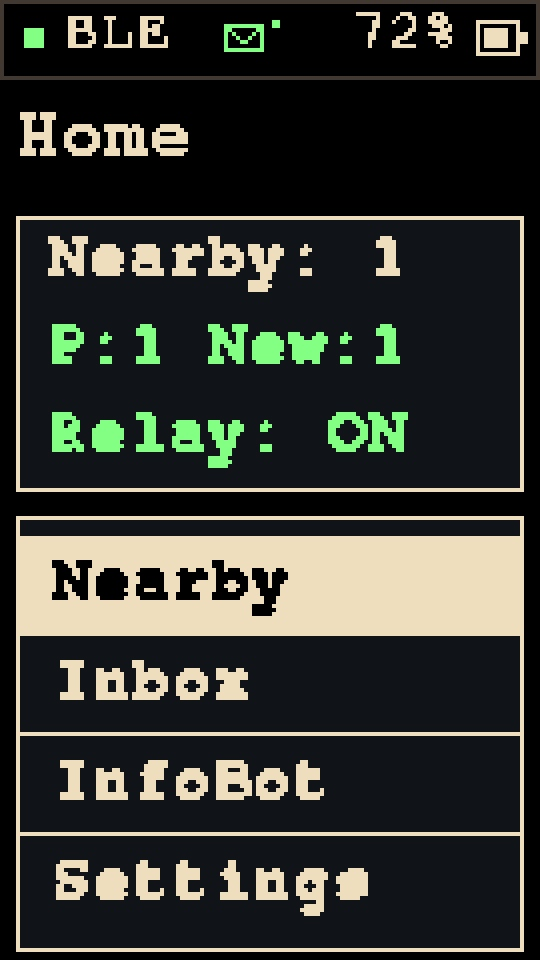
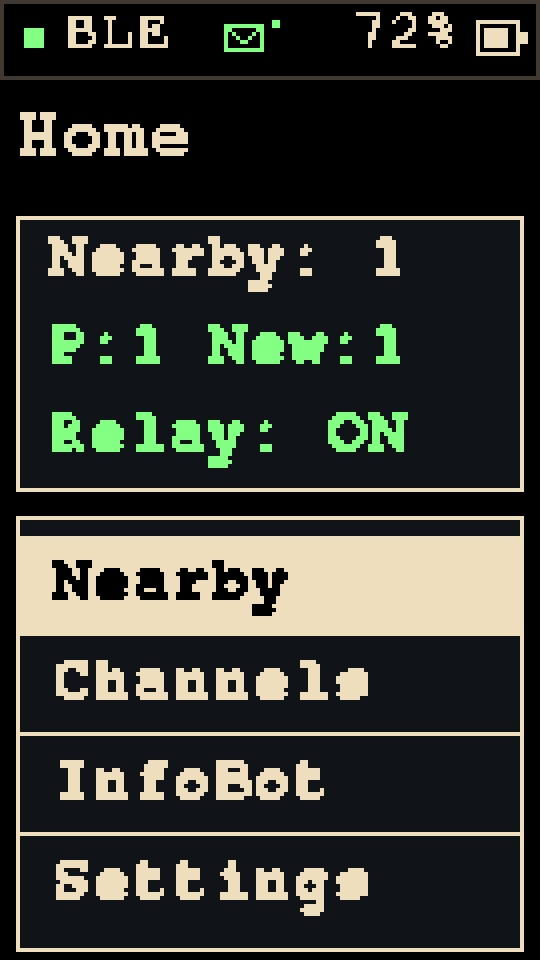
refactor: rename Inbox navigation to Channels
- Align the Home entry and page title with public channel writing and direct messages.
- Refresh guide labels and software previews without changing message behavior.
- Record owner-confirmed DM recovery and public sending.

Changed region(s): [[0.237, 0.6875, 0.5333, 0.75], [0.563, 0.6875, 0.6815, 0.75], [0.0889, 0.6875, 0.2074, 0.7188]]

diff --git a/tools/export-preview-jpegs.swift b/tools/export-preview-jpegs.swift
@@ -15,7 +15,7 @@ func text(_ text:String,_ x:CGFloat,_ y:CGFloat,_ size:CGFloat,_ bold:Bool=false
 text("BITCHAT STICK",48,31,38,true)
 text("FreeMono / cream #EBDCBA / 135 × 240 / simulated data",50,86,19)
 let names=["07-splash","01-dashboard","02-nearby-peers","03-channels","04-channel-messages","05-infobot","06-settings","08-brightness","10-battery","09-about","11-diagnostics","12-sound","13-joyc-hat","14-reply","15-short-messages","16-keyboard","17-confirm"]
-let titles=["START","HOME","NEARBY","INBOX","MESSAGES","INFOBOT","SETTINGS","BRIGHTNESS","BATTERY","ABOUT","DIAGNOSTICS","SOUND","JOYC HAT","REPLY","SHORT MESSAGES","KEYBOARD","CONFIRM"]
+let titles=["START","HOME","NEARBY","CHANNELS","MESSAGES","INFOBOT","SETTINGS","BRIGHTNESS","BATTERY","ABOUT","DIAGNOSTICS","SOUND","JOYC HAT","REPLY","SHORT MESSAGES","KEYBOARD","CONFIRM"]
 for i in 0..<names.count {
  let x=CGFloat(50+(i%6)*360),y=CGFloat(145+(i/6)*470)
  text(titles[i],x,y,16,true)

diff --git a/src/Ui.cpp b/src/Ui.cpp
@@ -193,7 +193,7 @@ void draw(const PeerTable& peers, uint32_t now) {
   const char* title = "Home";
   switch (screen) {
     case Screen::Peers: title = "Nearby"; break;
-    case Screen::Channels: title = detail ? "#bluetooth" : "Inbox"; break;
+    case Screen::Channels: title = detail ? "#bluetooth" : "Channels"; break;
     case Screen::Messages: title = "Messages"; break;
     case Screen::Bot: title = "InfoBot"; break;
     case Screen::Settings: title = "Settings"; break;
@@ -216,7 +216,7 @@ void draw(const PeerTable& peers, uint32_t now) {
       std::snprintf(value, sizeof(value), "Nearby: %u", unsigned(peers.candidates())); label(value, 57);
       std::snprintf(value, sizeof(value), "P:%u New:%u", unsigned(mesh().peerCount()), unsigned(mesh().unreadCount())); label(value, 79, green);
       label(transportReady() && mesh().ready() ? "Relay: ON" : "Relay: OFF", 101, transportReady() && mesh().ready() ? green : amber);
-      const char* options[] = {"Nearby", "Inbox", "InfoBot", "Settings"};
+      const char* options[] = {"Nearby", "Channels", "InfoBot", "Settings"};
       menu(options, 4, 129, 24);
       break;
     }

diff --git a/docs/04-screens.md b/docs/04-screens.md
@@ -24,7 +24,7 @@ Target: **M5StickC Plus2, 135 × 240 pixels, portrait, en-US**. The editable [Fi
 | A held ≥700ms | Reserved; no confirmation on release |
 | C held ≥700ms | No down action on release; six-second hold retains power off |
 
-Messages returns to Inbox on hold-B. Splash leaves on short-A or JoyC right. Short physical-button actions occur on release, with no auto-repeat. The first press after the 30-second screen timeout only wakes the display; navigation stays suppressed until all buttons are released. Scanning continues on its normal schedule. Brightness is restored from a versioned NVS record on boot; invalid/missing records use 50%. Only explicit confirmations write flash; known unchanged saved values are skipped, while invalid/unknown records are repaired. Failed saves show `Not saved / RAM only` in Settings.
+Messages returns to Channels on hold-B. Splash leaves on short-A or JoyC right. Short physical-button actions occur on release, with no auto-repeat. The first press after the 30-second screen timeout only wakes the display; navigation stays suppressed until all buttons are released. Scanning continues on its normal schedule. Brightness is restored from a versioned NVS record on boot; invalid/missing records use 50%. Only explicit confirmations write flash; known unchanged saved values are skipped, while invalid/unknown records are repaired. Failed saves show `Not saved / RAM only` in Settings.
 
 ## Optional Mini JoyC HAT
 
@@ -48,8 +48,8 @@ Diagnostics shows `J:X,Y` when the HAT responds. It exposes the module's calibra
 | Start | Name, shared controls, A enters Home | Final logo remains a design asset task |
 | Home | Advertisement candidates, signed-peer/unread counts, envelope, real relay/transport state | Counts do not prove channel membership |
 | Nearby | Signed peers take priority when available; otherwise filtered candidates; A opens ID/address details | Signed-only and Noise-authenticated statuses are distinct; RSSI belongs only to observations |
-| Inbox | Separate #bluetooth and Direct DMs destinations with unread counts; A opens the selected history | No private groups or Nostr context |
-| Messages | Twelve-entry public/DM live history with BLE/DM labels; B/C cycle messages; A opens text-scroll mode; B/C scroll; A again replies; hold-B leaves detail, then returns to Inbox | RAM-only, 192 displayed bytes, truncation indicated; replies use a live authenticated session |
+| Channels | Separate #bluetooth and Direct DMs destinations with unread counts; A opens the selected history | No private groups or Nostr context |
+| Messages | Twelve-entry public/DM live history with BLE/DM labels; B/C cycle messages; A opens text-scroll mode; B/C scroll; A again replies; hold-B leaves detail, then returns to Channels | RAM-only, 192 displayed bytes, truncation indicated; replies use a live authenticated session |
 | InfoBot | Command reference, authentication readiness, immediate Bot ON/OFF switch | Toggle is per boot; Welcome OFF |
 | Settings | Brightness, Battery, Diagnostics, Sound, JoyC HAT, About | Choices use compact rows |
 | Sound | Independent Interact, DM alert and Channel square checkboxes | All default off |
@@ -111,7 +111,7 @@ The **95 × 95px** QR points to **https://github.com/wanderlima/bitchat-stick**.
 
 The [seventeen JPEG previews](screens/README.md) are generated from current drawing calls and pinned font bitmaps, using simulated measurements. They are not hardware screenshots or protocol evidence. The host UI regression checks controls, applied-versus-focused brightness, all screens, live status, ordinary/candidate/empty peers, large counters and text/rectangle bounds. Physical readability, battery behavior, radio scanning, and QR camera reading need a device pass after upload.
 
-## Inbox and read state
+## Channels and read state
 
 **#bluetooth** is the apps' existing public local mesh, not a new room created by the Stick. Multiple nearby participants share it. **Direct DMs** filters private messages addressed to the Stick. The shared header, including Start, shows an envelope whenever a retained incoming message is unread; Home and each inbox show counts. Viewing one message marks only that entry read. Incoming messages do not replace the message currently being read.
 
@@ -129,7 +129,7 @@ The driver follows the local working Nemo reference's M5Unified transaction sequ
 
 ## Private composer — four additional screens
 
-Nearby A selects the currently displayed identified user. Inbox A opens the text reader; A again starts a private reply to that message's user. Reply offers Short msg/Keyboard; Short msgs provides 32 ready-made English messages with a sliding five-row viewport and scrollbar; Keyboard puts the draft above a compact QWERTY layout; Confirm shows the recipient and paged draft, then Send/Cancel. Cancel is initially selected.
+Nearby A selects the currently displayed identified user. Channels A opens the text reader; A again starts a private reply to that message's user. Reply offers Short msg/Keyboard; Short msgs provides 32 ready-made English messages with a sliding five-row viewport and scrollbar; Keyboard puts the draft above a compact QWERTY layout; Confirm shows the recipient and paged draft, then Send/Cancel. Cancel is initially selected.
 
 B/C and JoyC up/down traverse the keyboard in reading order. A/right selects, left/hold-B backs out one step. ABC/123/abc switches case/numbers, SP inserts a space, DEL removes the last character, and OK opens confirmation. The confirmation text pages participate in the same focus cycle as Send and Cancel, allowing the full 192-character draft to be reviewed.
 
@@ -143,4 +143,4 @@ The public inbox is named #bluetooth again, with Public chat as its subtitle. Ho
 
 ## Public writing and DM recovery
 
-Inbox → #bluetooth now has Read chat/Write msg actions. Write msg opens the shared method/preset/keyboard/confirmation flow with an explicit public target. Existing per-user Reply remains private. A failed private send shows Not sent as the heading and its reason below: Connecting, Peer gone, or Link / queue. Connecting retains the draft and starts negotiation; the user must retry Send after authentication.
+Channels → #bluetooth now has Read chat/Write msg actions. Write msg opens the shared method/preset/keyboard/confirmation flow with an explicit public target. Existing per-user Reply remains private. A failed private send shows Not sent as the heading and its reason below: Connecting, Peer gone, or Link / queue. Connecting retains the draft and starts negotiation; the user must retry Send after authentication.

diff --git a/README.md b/README.md
@@ -45,15 +45,15 @@ The interface uses FreeMono Regular/Bold, warm cream `#EBDCBA` instead of pure w
 
 ## Live features and remaining scope
 
-- Home, Nearby, Inbox, Messages, InfoBot, Settings, Brightness, Battery, About, and Diagnostics use real firmware state.
+- Home, Nearby, Channels, Messages, InfoBot, Settings, Brightness, Battery, About, and Diagnostics use real firmware state.
 - Nearby distinguishes service-advertisement candidates, signed peers, and Noise-authenticated peers. A signed name is not an out-of-band verified human identity.
-- Inbox separates **#bluetooth** (the shared public BLE `#bluetooth` context) and **Direct DMs** (private messages addressed to this Stick). It does not create a new channel. Messages reads signed public text and authenticated DMs, with explicit BLE/DM labels. It keeps twelve RAM-only entries, with message paging and text scrolling; at most 192 bytes are rendered per entry, with an explicit truncation mark.
+- Channels separates **#bluetooth** (the shared public BLE `#bluetooth` context) and **Direct DMs** (private messages addressed to this Stick). It does not create a new channel. Messages reads signed public text and authenticated DMs, with explicit BLE/DM labels. It keeps twelve RAM-only entries, with message paging and text scrolling; at most 192 bytes are rendered per entry, with an explicit truncation mark.
 - Signed public announcements and text are verified, deduplicated, and eligible for TTL-limited forwarding without echoing the ingress link. Queue acceptance is not a delivery acknowledgement.
 - InfoBot supports `!info`, `!rules`, `!help`, and `!about`, plus `!regras`/`!ajuda` aliases. Signed public commands receive public replies; authenticated DMs receive private replies. A three-second peer limit and one-second global limit prevent reply floods. The InfoBot screen shows its latest reply/block status. See [usage and troubleshooting](docs/15-infobot.md). The on-device `Bot: ON/OFF` switch applies immediately for the current boot.
 - Public channel-join greetings remain OFF because discovery/reconnection does not reliably prove channel entry. With Bot ON, the first fresh authenticated DM from each person receives a private introduction explaining !help/!about, once per boot for up to 32 identities.
 - An envelope in the header indicates unread incoming messages. Home and each inbox show unread counts; opening a DM sends an encrypted read receipt. New arrivals preserve the current reading position. Unread state is RAM-only.
-- Inbox → #bluetooth offers Read chat and Write msg; public drafts show the channel explicitly and use signed public sending. Replying to a user remains private.
-- Nearby users and Inbox messages open a private composer: 32 scrolling Short msg presets or a QWERTY keyboard, then Send/Cancel. Drafts are bounded to 192 ASCII characters. Sending requires an authenticated live session; Queued, Delivered and Read are distinct states. See the [composer and device checklist](docs/14-direct-message-composer.md).
+- Channels → #bluetooth offers Read chat and Write msg; public drafts show the channel explicitly and use signed public sending. Replying to a user remains private.
+- Nearby users and Channels messages open a private composer: 32 scrolling Short msg presets or a QWERTY keyboard, then Send/Cancel. Drafts are bounded to 192 ASCII characters. Sending requires an authenticated live session; Queued, Delivered and Read are distinct states. See the [composer and device checklist](docs/14-direct-message-composer.md).
 - Drawing uses a 135 × 240 offscreen framebuffer before updating the display, avoiding the visible erase/redraw cycle.
 
 Private media, private groups, Nostr, gossip/history synchronization, arbitrary routed Noise forwarding, OTA, persistent chat history remain future scope. See the [wire contract and security limits](docs/12-wire-contract.md) and [current implementation plan](docs/11-implementation-plan.md).

diff --git a/docs/14-direct-message-composer.md b/docs/14-direct-message-composer.md
@@ -2,7 +2,7 @@
 
 ## Scope and acceptance
 
-Selecting an identified user in Nearby or replying to a message in Inbox opens the private-message flow. Inbox → #bluetooth → Write msg opens a new public message using the same editor screens. Read chat opens the public history. BLE advertisements alone are not a verified user and keep their existing inspection view. The recipient is copied by its eight-byte peer ID; changing list order or arriving messages must never change it.
+Selecting an identified user in Nearby or replying to a message in Channels opens the private-message flow. Channels → #bluetooth → Write msg opens a new public message using the same editor screens. Read chat opens the public history. BLE advertisements alone are not a verified user and keep their existing inspection view. The recipient is copied by its eight-byte peer ID; changing list order or arriving messages must never change it.
 
 Four screens use the existing cream/green FreeMono style and 135×240 portrait display:
 
@@ -42,7 +42,7 @@ On 2026-11-11, the owner reported that the installed message-sending flow worked
 
 - [ ] Nearby → user → Short msg → scroll through movement/help presets → Cancel sends nothing.
 - [ ] Nearby → user → Short msg → Send arrives in the intended Android DM.
-- [ ] Inbox → open DM → Reply → Keyboard → type, switch case/numbers, space/delete → Done → Send arrives on iOS.
+- [ ] Channels → open DM → Reply → Keyboard → type, switch case/numbers, space/delete → Done → Send arrives on iOS.
 - [ ] New inbound messages while composing do not change recipient/draft.
 - [ ] Disconnect before Send: failure shown, draft retained; reconnect/authenticate and retry.
 - [ ] Queued changes only after an authenticated delivery/read receipt; duplicate confirmation does not send twice.
@@ -57,7 +57,7 @@ A known user without an authenticated session now triggers negotiation when Send
 
 The private-session pool now matches the twelve-peer table rather than the two physical BLE connections. Expired/orphaned sessions are released. The two-session configuration was reproduced failing a three-identity regression; the twelve-session configuration passes it. This source-level correction does not by itself confirm a particular phone exchange.
 
-Inbox → #bluetooth offers Read chat and Write msg. Public confirmation shows #bluetooth and Public chat, never a peer ID. Reply from a received message still selects that sender privately. Cancel returns to the original menu. Queued is not delivered; public messages have no private delivered/read receipt.
+Channels → #bluetooth offers Read chat and Write msg. Public confirmation shows #bluetooth and Public chat, never a peer ID. Reply from a received message still selects that sender privately. Cancel returns to the original menu. Queued is not delivered; public messages have no private delivered/read receipt.
 
 - [ ] With at least three discovered users, select a signed-only user and try a DM. If Connecting appears, allow negotiation and retry Send; confirm actual phone reception.
 - [ ] Receive a fresh DM and verify body, receipt and introduction behavior after recovery.

diff --git a/docs/13-device-checklist.md b/docs/13-device-checklist.md
@@ -4,6 +4,8 @@ Updated: **2026-11-11**. Device name: **Bitchat Stick**. Supported context: publ
 
 ## Evidence already recorded
 
+- [x] Owner confirmed DM recovery and new public writing in #bluetooth after the session-pool correction.
+
 - [x] Production target builds and uploads with image hash verification.
 - [x] Native regression suites cover protocol, crypto/Noise vectors, persistence, mesh, UI and GATT bounds.
 - [x] Reproduced startup reboot loop fixed by pausing scanning during GATT registration.
@@ -61,8 +63,8 @@ Updated: **2026-11-11**. Device name: **Bitchat Stick**. Supported context: publ
 
 Use your own test phones and synthetic content. Public BLE messages are visible to nearby participants.
 
-- [ ] In Inbox, verify **#bluetooth** and **Direct DMs** are separate. The public inbox is the shared local conversation, not a room created by the Stick.
-- [ ] From Android, send a unique public message such as `android-stick-001` in #bluetooth; it appears in Inbox → #bluetooth on the Stick.
+- [ ] In Channels, verify **#bluetooth** and **Direct DMs** are separate. The public inbox is the shared local conversation, not a room created by the Stick.
+- [ ] From Android, send a unique public message such as `android-stick-001` in #bluetooth; it appears in Channels → #bluetooth on the Stick.
 - [ ] Repeat from iPhone with `ios-stick-001`. Verify sender name and actual content.
 - [ ] B/C changes message; A enters text scrolling; B/C scrolls long text; hold-B leaves detail, then Messages.
 - [ ] Send long text, accents and emoji: no crash, unsupported display glyphs are substituted, and truncation is indicated when applicable.
@@ -75,7 +77,7 @@ Use your own test phones and synthetic content. Public BLE messages are visible 
 ## 4a. Private-message reader
 
 - [ ] Wait for **Noise auth**, then send a new DM from Android directly to **Bitchat Stick**.
-- [ ] Open Inbox → Direct DMs: the message appears with a **DM** label and correct sender/content.
+- [ ] Open Channels → Direct DMs: the message appears with a **DM** label and correct sender/content.
 - [ ] Before opening the DM on the Stick, Android should show delivered only. Opening it sends the encrypted read receipt; verify Android changes to read within a few seconds while connected.
 - [ ] Repeat from iPhone; test long text and reconnect. Earlier DMs sent before the update are not automatically recovered.
 - [ ] Send `!info` as a DM: it is displayed privately and receives a private InfoBot reply, never a public reply.
@@ -108,5 +110,5 @@ See [InfoBot usage](15-infobot.md) for the changed public/private command gates,
 
 - [ ] With a connected phone, retry DM Send. If Connecting appears, wait for authentication and explicitly retry; record the final reason if it fails.
 - [ ] Repeat with at least three discovered identities and verify actual delivery in both directions.
-- [ ] Inbox → #bluetooth → Write msg sends new public text; per-user Reply remains private.
+- [ ] Channels → #bluetooth → Write msg sends new public text; per-user Reply remains private.
 - [ ] Cancel a public draft: no transmission; return to Read chat/Write msg with the previous focus.

diff --git a/docs/11-implementation-plan.md b/docs/11-implementation-plan.md
@@ -15,7 +15,7 @@ Updated: **2026-11-11**. English (en-US) firmware v0.2.0. Source implementation 
 | 7 | Home | Candidate/peer/unread totals, relay state, live header | State transitions, no erase/redraw flicker |
 | 8 | Nearby | Filtered candidates, signed peers, Noise authentication, stable candidate selection, IDs/details | Android/iOS foreground/background/reconnect behavior |
 | 9 | Messages | Signed public and authenticated private input, bounded history, paging and text scrolling | Real text, Unicode substitution, truncation, reconnect |
-| 10 | Inbox | Public #bluetooth and Direct DMs, unread counts and reply entry | Offline context and controlled indirect forwarding |
+| 10 | Channels | Public #bluetooth and Direct DMs, unread counts and reply entry | Offline context and controlled indirect forwarding |
 | 11 | InfoBot | Authenticated fresh commands, reply limits, ON/OFF control, welcomes OFF | Cross-platform replies, cooldown, no reply loops |
 | 12 | Sound | Persistent independent interaction/DM/channel checkboxes | Buzzer audibility and incoming alert behavior |
 | 13 | JoyC HAT | Corrected axes, optional click/LED, release-to-arm and repeat rules | Click/LED edge cases; directions confirmed by owner |
@@ -52,4 +52,4 @@ Each implementation group is committed separately; no push is part of this work.
 - **XL:** Nostr/internet contexts, OTA, persistent/out-of-band peer trust and secure-storage provisioning.
 - **Conditional:** welcomes only after an authoritative, tested entry signal exists. Reappearance, a BLE advert or a reconnect is insufficient.
 
-Completed implementation group: authenticated DM sending, delivery/read correlation, four-screen composer from Nearby/Inbox, bounded QWERTY/canned replies and confirmation/cancellation. The owner confirmed the installed sending flow worked well on 2026-11-11. Phone platform, individual input paths and receipt states were not specified; remaining detailed checks are in [the composer checklist](14-direct-message-composer.md).
+Completed implementation group: authenticated DM sending, delivery/read correlation, four-screen composer from Nearby/Channels, bounded QWERTY/canned replies and confirmation/cancellation. The owner confirmed the installed sending flow worked well on 2026-11-11. Phone platform, individual input paths and receipt states were not specified; remaining detailed checks are in [the composer checklist](14-direct-message-composer.md).

diff --git a/docs/09-getting-started.md b/docs/09-getting-started.md
@@ -16,7 +16,7 @@ Firmware **v0.2.0**, English (en-US). Source implementation and physical accepta
 - Authenticated, recent public InfoBot commands and rate limits; immediate on-device Bot ON/OFF switch. This switch resets to ON at reboot; brightness and local identity persist.
 - Real repository QR, Wander Lima credits, BLE/heap/uptime counters and UTC RTC status. Serial telemetry contains counters, not message bodies or private keys.
 - Separate #bluetooth/Direct DMs inboxes, header unread envelope and per-message read state. Opening a DM schedules its encrypted read receipt; unopened messages remain unread.
-- Private composer from Nearby/Inbox: 32 scrolling short messages, QWERTY with case/numbers, 192-character drafts, explicit Send/Cancel, authenticated sending and delivery/read correlation.
+- Private composer from Nearby/Channels: 32 scrolling short messages, QWERTY with case/numbers, 192-character drafts, explicit Send/Cancel, authenticated sending and delivery/read correlation.
 - Persistent independent Sound/JoyC checkboxes, optional center click and LED pulse; About is last in Settings.
 
 ## Confirmed hardware evidence
@@ -110,7 +110,7 @@ The table test covers updates, address-type distinction, bounds/oldest replaceme
 | A short | Confirm/open; show/close detail; change selected brightness |
 | B short | Up / previous observation |
 | C short (`M5.BtnPWR`) | Down / next observation |
-| B held ≥700 ms | Back once; Messages→Inbox; Settings sub-screens→Settings; details→list; other pages→Home; Home→Start |
+| B held ≥700 ms | Back once; Messages→Channels; Settings sub-screens→Settings; details→list; other pages→Home; Home→Start |
 | A held ≥700 ms | Reserved; no confirmation on release |
 | C held ≥700 ms | No down action; 6-second hold retains power off |
 

diff --git a/docs/06-testing.md b/docs/06-testing.md
@@ -153,3 +153,7 @@ The owner reported DM sending/receiving stopped while public chat continued. A y
 The session pool is now bounded to twelve, orphaned sessions are released and explicit DM sends initiate missing authentication while retaining the draft. Detailed send status distinguishes Connecting, expired peers and link/queue failures. Counter-only USB diagnostics report received writes/public/DM totals, transmit queue/notifies, clock and selected rejection reasons. No message bodies or keys are logged.
 
 Nineteen native suites and independent CryptoKit verification passed; the target built and uploaded with hash verification (990,336 bytes). UI tests exercise the new public Read chat/Write msg path, explicit public confirmation, actual public dispatch and cancellation without converting user replies to public traffic. Three additional software-rendered states were inspected. A post-upload observation found the loop/HAT active and heap stable at 137,088 bytes, but no phone was connected during that observation. Actual DM recovery and public reception await the owner's retry.
+
+## Owner confirmation and Channels label — 2026-11-11
+
+In response to the requested DM and #bluetooth Write msg checks, the owner confirmed that both worked correctly. This closes the general recovery/public-writing acceptance for the tested setup; no separate Android/iOS, endurance or all-peer receipt result is inferred. The navigation label was subsequently renamed from Inbox to Channels; public/private destinations and controls are unchanged.

diff --git a/docs/12-wire-contract.md b/docs/12-wire-contract.md
@@ -121,7 +121,7 @@ Noise payload type `0x01` is decoded as the official private-text TLV packet: on
 
 A successful store sends an encrypted `0x03` delivered receipt carrying the original message ID. Retransmissions can be acknowledged without duplicating history. Receipt means received/stored, not read. No DM is sent to the public relay or InfoBot. Private media/groups, courier envelopes and DM composition remain unsupported. Native tests cover private decoding, receipts, re-encrypted duplicates, malformed TLVs and isolation of `!info` inside a DM.
 
-## Inbox, unread state and read receipts
+## Channels, unread state and read receipts
 
 Each retained message has a local sequence ID and unread flag; public/private filters share the twelve-entry bound. Outgoing messages start read. The unread envelope/counts derive from retained incoming entries, so overwriting history also removes its old unread entry. UI focus follows the sequence ID rather than a shifting ring offset. Opening the wrong inbox or remaining on Home does not mark a DM read.
 

diff --git a/docs/10-build-deploy.md b/docs/10-build-deploy.md
@@ -123,7 +123,7 @@ If the monitor starts after this line, it may not appear until the next boot. Ev
 6. Compare voltage/estimate on USB and battery; no measured autonomy is established.
 7. Check About credits/links and Diagnostics, then complete the [hardware checklist](09-getting-started.md#evidence-and-hardware-checklist).
 
-Open Inbox → Mesh → Messages for the live reader. InfoBot shows authentication readiness and a per-boot enable switch. Complete the [current device checklist](13-device-checklist.md); network visibility alone does not prove forwarding.
+Open Channels → Mesh → Messages for the live reader. InfoBot shows authentication readiness and a per-boot enable switch. Complete the [current device checklist](13-device-checklist.md); network visibility alone does not prove forwarding.
 
 ## 8. Artifacts and traceability
 

diff --git a/docs/03-features.md b/docs/03-features.md
@@ -36,7 +36,7 @@ The preferred fallback is a user-requested `!info` response, not unsolicited mes
 
 ## Initial Pocket Messenger — implemented
 
-Nearby/Inbox entry, 32 short replies, a compact QWERTY editor, and explicit recipient/text confirmation are implemented. B/C navigate, A selects, and hold B returns/cancels; JoyC uses the same actions. Opening a message or choosing a phrase never transmits it. See [the composer](14-direct-message-composer.md).
+Nearby/Channels entry, 32 short replies, a compact QWERTY editor, and explicit recipient/text confirmation are implemented. B/C navigate, A selects, and hold B returns/cancels; JoyC uses the same actions. Opening a message or choosing a phrase never transmits it. See [the composer](14-direct-message-composer.md).
 
 ## Current InfoBot control
 
